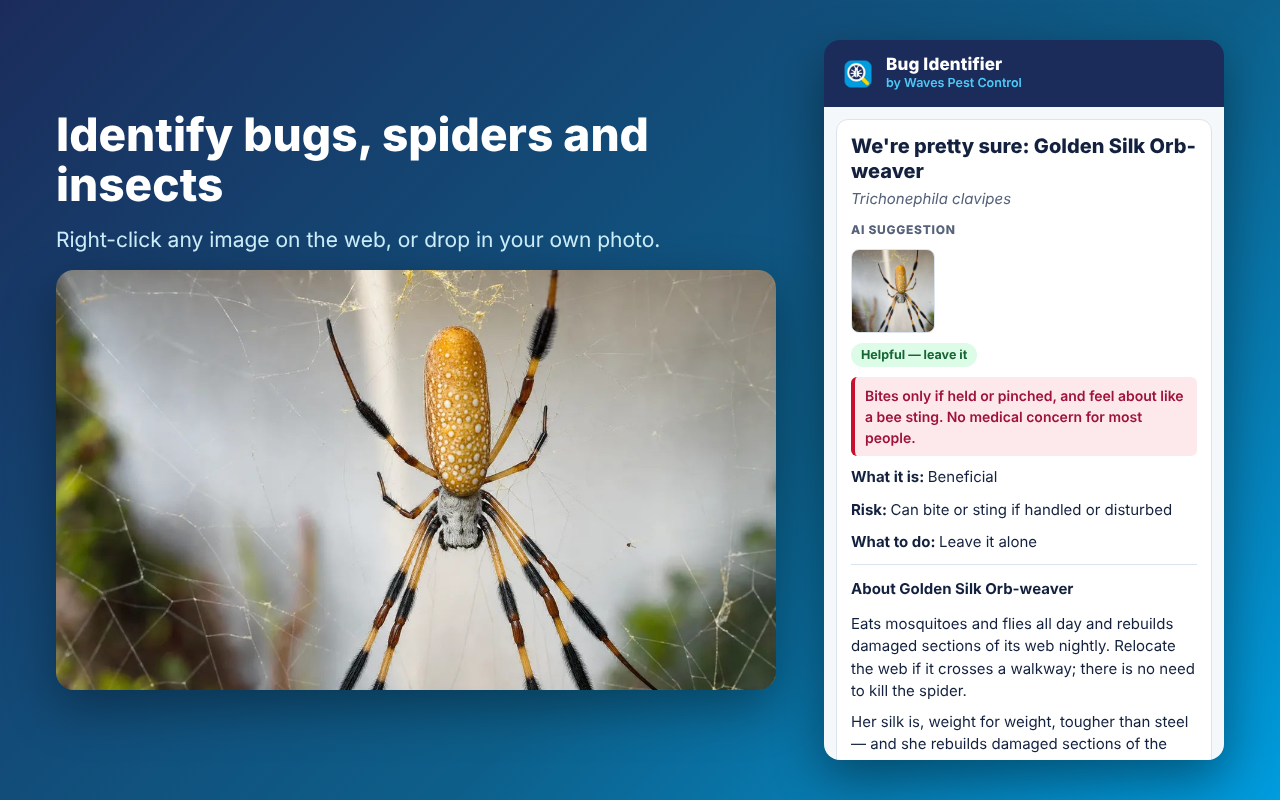
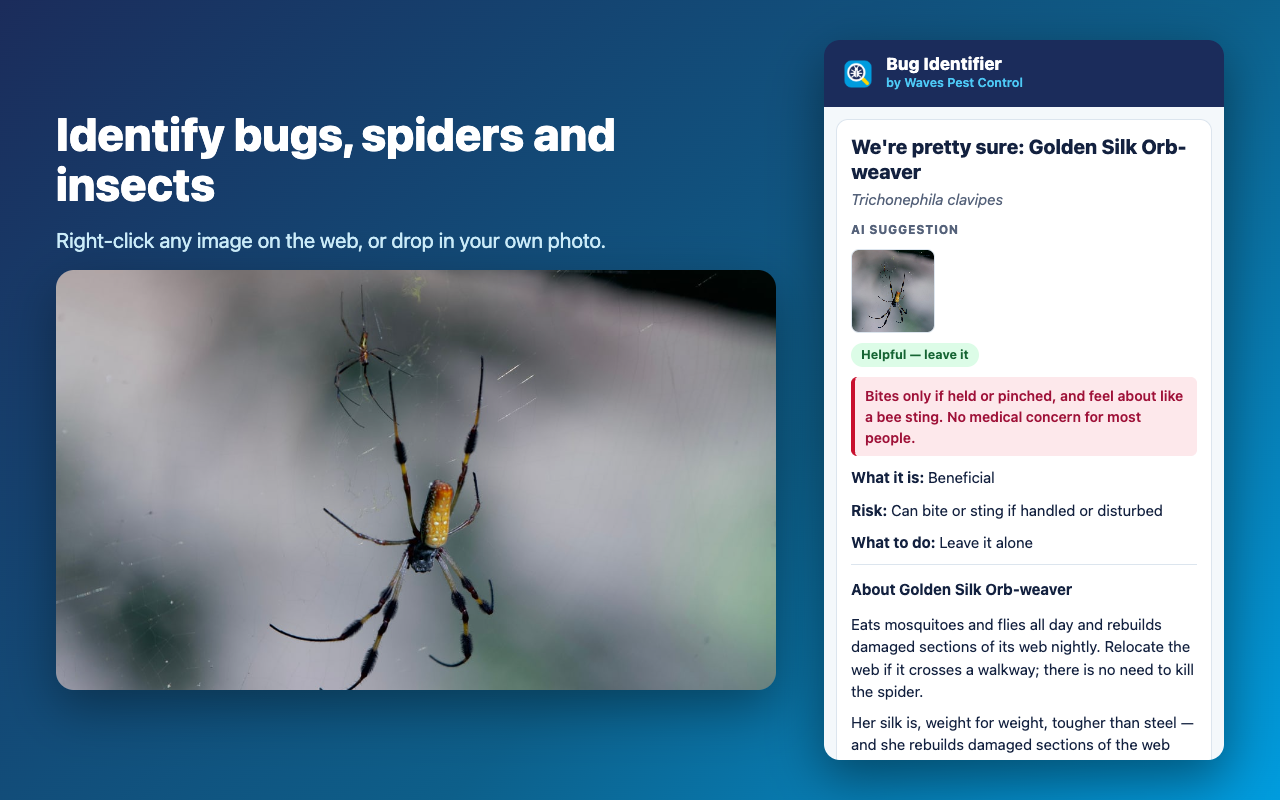
Bug Identifier store images: public-domain sample photo + photo credits (#7301)
The store screenshots used the banana spider blog post's hero image, which
has no recorded source or license, and this repo is public. Swap it for a
CC0 iNaturalist photo (observation 126590005), record both sample photos'
sources and licenses in sample-photos/CREDITS.md (the wolf spider, used
only by the smoke test, is CC BY 4.0), move the smoke test's drag box onto
the new photo's spider, and regenerate the four store images.

diff --git a/extensions/bug-identifier/store/sample-photos/CREDITS.md b/extensions/bug-identifier/store/sample-photos/CREDITS.md
@@ -1,0 +1,18 @@
+# Sample photo credits
+
+`scripts/screenshots.mjs` uses these two photos for the smoke test, and
+`golden-silk-orbweaver.jpg` also for the store images. Both are real
+observations, resized.
+
+- `golden-silk-orbweaver.jpg` (in the store images): a female golden silk
+  orb-weaver (*Trichonephila clavipes*) with a male above her, Anahuac National
+  Wildlife Refuge, Texas, July 16, 2022, by Dario Taraborelli (radrat) via
+  [iNaturalist](https://www.inaturalist.org/observations/126590005)
+  (photo 214804796). Public domain under
+  [CC0](https://creativecommons.org/publicdomain/zero/1.0/): no credit line
+  needed.
+- `wolf-spider.jpg` (smoke test only, not in the store images): a female
+  Carolina wolf spider (*Hogna carolinensis*) by codystricker via
+  [iNaturalist](https://www.inaturalist.org/photos/227529967), also on
+  [Wikimedia Commons](https://commons.wikimedia.org/wiki/File:Hogna_carolinensis_female_dorsal.jpeg).
+  Licensed [CC BY 4.0](https://creativecommons.org/licenses/by/4.0/).

diff --git a/extensions/bug-identifier/store/listing.md b/extensions/bug-identifier/store/listing.md
@@ -52,9 +52,10 @@ species count from the catalog (239 approved entries in 29 groups as of
 | Screenshots (1280x800) | `screenshots/1-identify.png`, `screenshots/2-select-on-page.png`, `screenshots/3-start.png` |
 | Small promo tile (440x280) | `screenshots/promo-small-440x280.png` |
 
-The screenshots use two photos from the Waves blog (`sample-photos/`).
-Confirm they are cleared for the store listing, or swap in your own photos
-and re-run `scripts/screenshots.mjs`.
+The store images use one photo, `sample-photos/golden-silk-orbweaver.jpg`,
+which is public domain (CC0), so the listing needs no photo credit. Sources
+and licenses for both sample photos are in `sample-photos/CREDITS.md`. To use
+another photo, replace that file and re-run `scripts/screenshots.mjs`.
 
 ## Privacy practices tab
 
